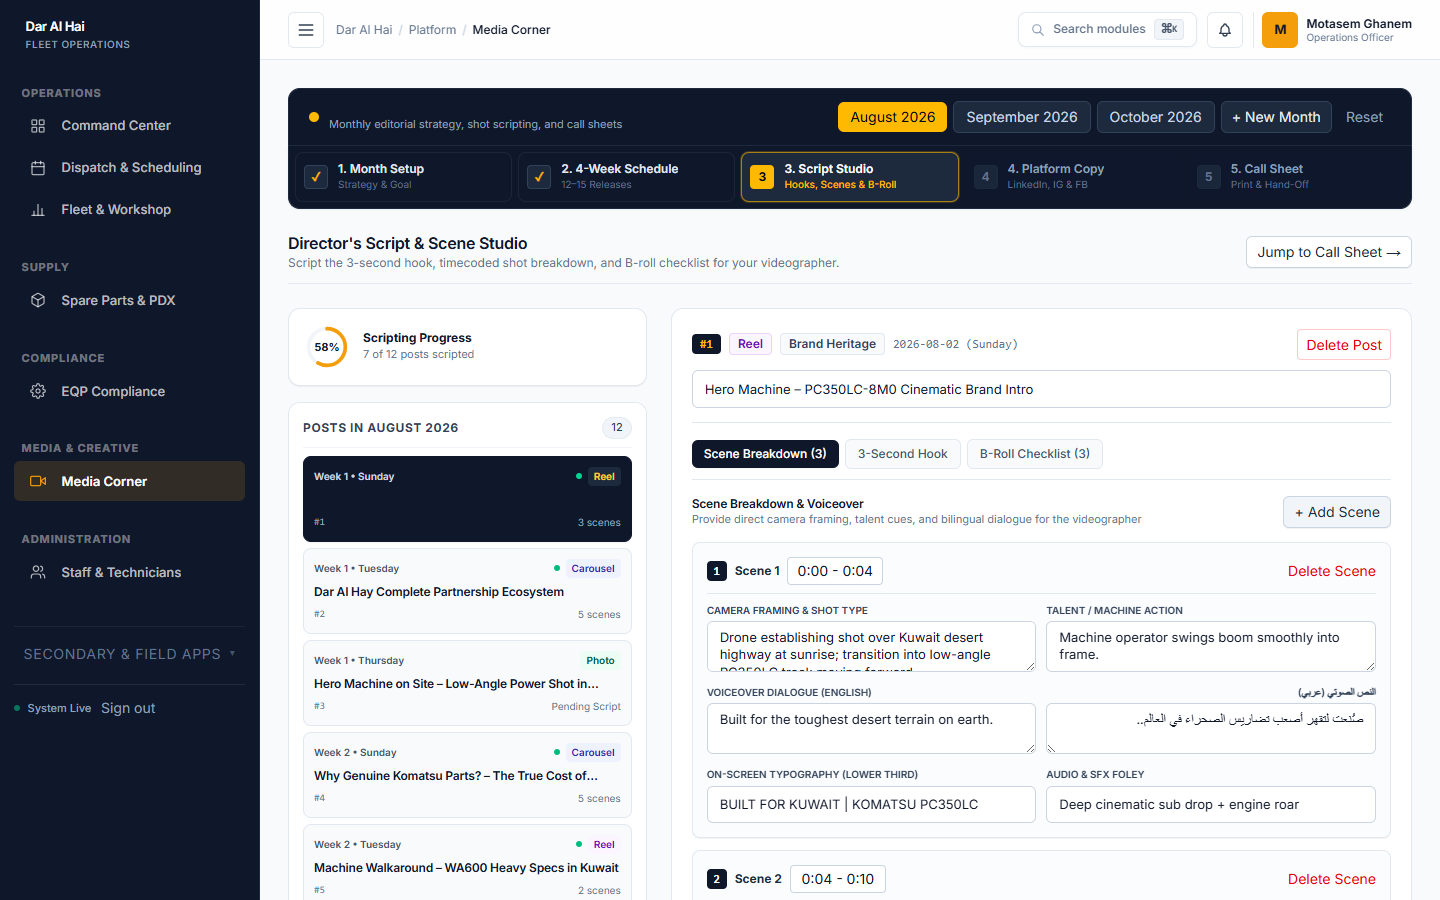
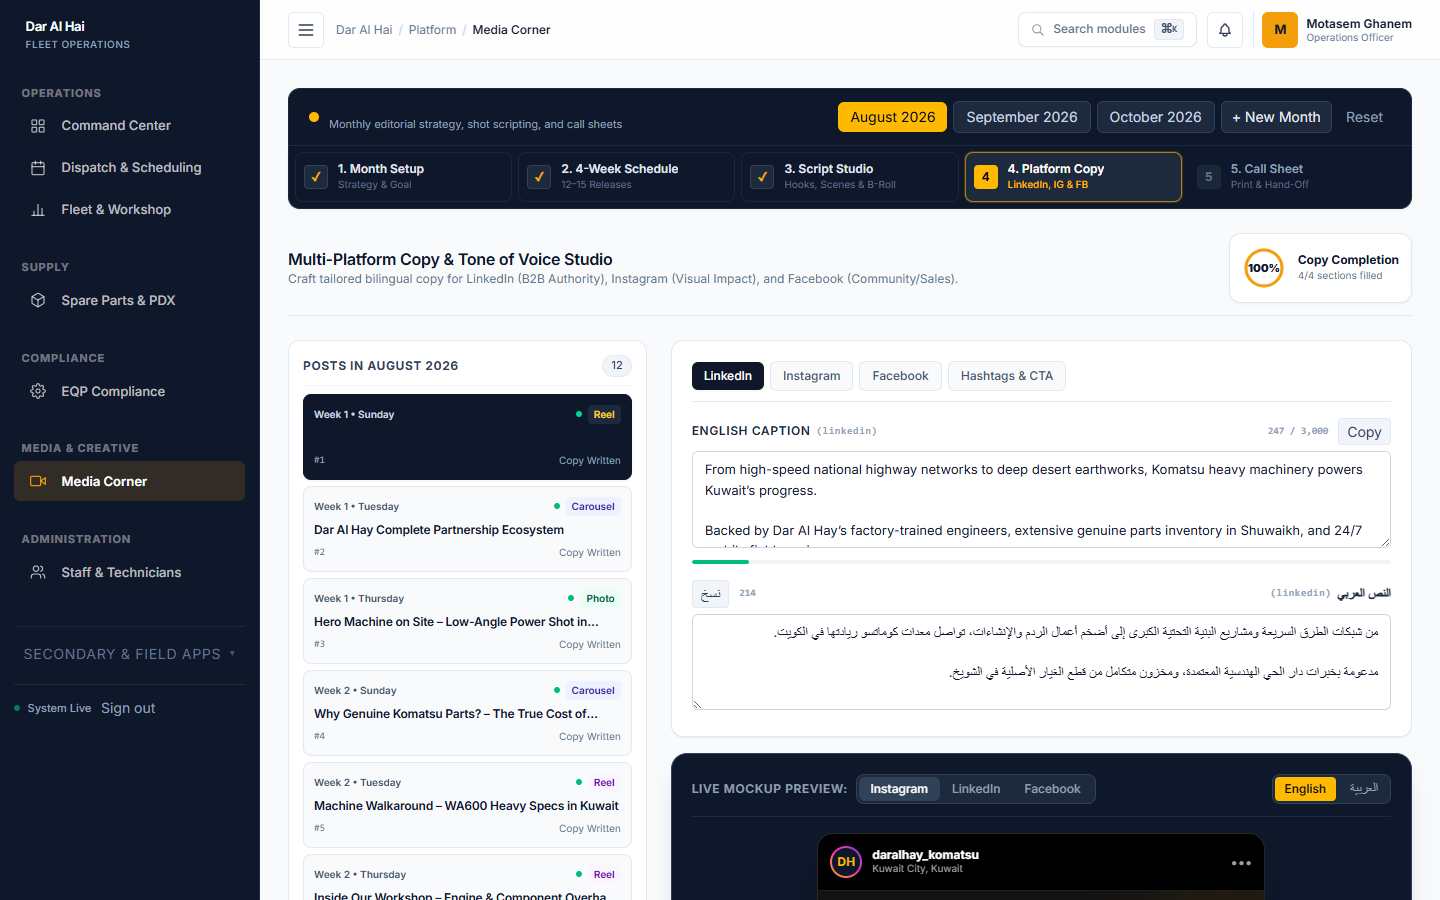
fix(media): clean up platform copy studio, remove emojis, and unify mockup preview

diff --git a/frontend/components/media/steps/Step4PlatformCopy.js b/frontend/components/media/steps/Step4PlatformCopy.js
@@ -101,13 +101,13 @@ export default function Step4PlatformCopy({
       <div className="grid grid-cols-1 lg:grid-cols-12 gap-6 items-start">
         {/* Left Sidebar: Concept Selector + Copy Status */}
         <div className="lg:col-span-4 space-y-4">
-          <div className="bg-white p-4 rounded-2xl border border-slate-200 shadow-xs max-h-[700px] overflow-y-auto space-y-3">
+          <div className="bg-white p-3.5 rounded-xl border border-slate-200 shadow-2xs max-h-[700px] overflow-y-auto space-y-2">
             <div className="flex items-center justify-between pb-2 border-b border-slate-100">
               <span className="text-xs font-bold text-slate-700 uppercase tracking-wider">Posts in {campaign.monthName}</span>
               <Badge tone="neutral">{concepts.length}</Badge>
             </div>
 
-            <div className="space-y-2">
+            <div className="space-y-1.5">
               {concepts.map((c) => {
                 const isSelected = c.id === copyData.id;
                 const fMeta = FORMAT_TYPES.find((f) => f.id === c.format) || FORMAT_TYPES[0];
@@ -117,24 +117,34 @@ export default function Step4PlatformCopy({
                   <div
                     key={c.id}
                     onClick={() => onSelectConcept(c.id)}
-                    className={`p-3 rounded-xl border transition-all cursor-pointer space-y-1 ${
+                    className={`p-2.5 rounded-lg border transition-all cursor-pointer space-y-1.5 ${
                       isSelected
-                        ? 'bg-slate-900 text-white border-slate-900 shadow-sm'
+                        ? 'bg-slate-900 text-white border-slate-900 shadow-xs'
                         : 'bg-slate-50 border-slate-200 text-slate-800 hover:bg-slate-100'
                     }`}
                   >
                     <div className="flex items-center justify-between text-[10px]">
-                      <span className="font-bold opacity-80">{c.week} • {c.day}</span>
+                      <span className={`font-semibold ${isSelected ? 'text-slate-300' : 'text-slate-600'}`}>
+                        {c.week} • {c.day}
+                      </span>
                       <div className="flex items-center gap-1.5">
                         {hasCopy && (
                           <span className={`w-1.5 h-1.5 rounded-full shrink-0 ${isSelected ? 'bg-emerald-400' : 'bg-emerald-500'}`} />
                         )}
-                        <span className={`px-1.5 py-0.2 rounded font-bold ${isSelected ? 'bg-slate-800 text-amber-300' : fMeta.color}`}>
-                          {fMeta.label}
+                        <span className={`px-1.5 py-0.5 rounded font-semibold text-[10px] whitespace-nowrap ${isSelected ? 'bg-slate-800 text-amber-300' : fMeta.color}`}>
+                          {fMeta.shortLabel || fMeta.label}
                         </span>
                       </div>
                     </div>
-                    <h4 className="text-xs font-bold leading-snug line-clamp-1">{c.title}</h4>
+
+                    <h4 className={`text-xs font-bold leading-snug line-clamp-1 ${isSelected ? 'text-white' : 'text-slate-900'}`}>
+                      {c.title || 'Untitled Post'}
+                    </h4>
+
+                    <div className={`flex items-center justify-between text-[10px] pt-0.5 ${isSelected ? 'text-slate-400' : 'text-slate-500'}`}>
+                      <span className="font-mono">#{c.conceptNumber}</span>
+                      <span>{hasCopy ? 'Copy Written' : 'Draft Pending'}</span>
+                    </div>
                   </div>
                 );
               })}
@@ -143,24 +153,19 @@ export default function Step4PlatformCopy({
 
           {/* TOV Quick-Reference Card */}
           {tovPlatform && activeTab !== 'hashtags' && (
-            <div className={`rounded-2xl overflow-hidden border border-slate-200 shadow-xs`}>
-              <div className={`bg-gradient-to-r ${platformInfo.gradient} text-white p-3.5`}>
-                <div className="flex items-center gap-2">
-                  <span className="text-lg">{platformInfo.icon}</span>
-                  <div>
-                    <h4 className="text-xs font-bold">{tovPlatform.platform} TOV Guide</h4>
-                    <p className="text-[10px] opacity-80">{platformInfo.toneLabel}</p>
-                  </div>
-                </div>
+            <div className="rounded-xl overflow-hidden border border-slate-200 shadow-2xs bg-white">
+              <div className="bg-slate-900 text-white p-3 border-b border-slate-800">
+                <h4 className="text-xs font-bold text-slate-100">{tovPlatform.platform} Tone of Voice</h4>
+                <p className="text-[10px] text-slate-400 mt-0.5">{platformInfo.toneLabel}</p>
               </div>
-              <div className="bg-white p-3.5 space-y-2 text-xs">
+              <div className="p-3 space-y-2 text-xs">
                 <div>
                   <span className="text-[10px] font-bold text-slate-400 uppercase block">Target Audience:</span>
-                  <p className="text-slate-800 font-medium mt-0.5">{tovPlatform.target}</p>
+                  <p className="text-slate-800 font-medium mt-0.5 text-xs">{tovPlatform.target}</p>
                 </div>
                 <div>
                   <span className="text-[10px] font-bold text-slate-400 uppercase block">Writing Style:</span>
-                  <p className="text-slate-600 leading-relaxed mt-0.5">{tovPlatform.guidelines}</p>
+                  <p className="text-slate-600 leading-relaxed mt-0.5 text-[11px]">{tovPlatform.guidelines}</p>
                 </div>
               </div>
             </div>
@@ -168,10 +173,10 @@ export default function Step4PlatformCopy({
         </div>
 
         {/* Right Main Stage: Copywriting Tabs & Live Mockup */}
-        <div className="lg:col-span-8 space-y-5">
-          <div className="bg-white p-6 rounded-2xl border border-slate-200 shadow-xs space-y-5">
+        <div className="lg:col-span-8 space-y-4">
+          <div className="bg-white p-5 rounded-xl border border-slate-200 shadow-2xs space-y-4">
             {/* Platform Copy Tabs */}
-            <div className="flex flex-wrap items-center gap-2 border-b border-slate-200 pb-3 text-xs font-bold">
+            <div className="flex flex-wrap items-center gap-1.5 border-b border-slate-200 pb-2.5 text-xs font-medium">
               {['linkedin', 'instagram', 'facebook'].map((platId) => {
                 const pi = PLATFORM_LIMITS[platId];
                 const isActive = activeTab === platId;
@@ -181,14 +186,13 @@ export default function Step4PlatformCopy({
                     key={platId}
                     type="button"
                     onClick={() => setActiveTab(platId)}
-                    className={`px-3.5 py-2 rounded-xl transition-all flex items-center gap-2 border ${
+                    className={`px-3 py-1.5 rounded-md transition-all cursor-pointer ${
                       isActive
-                        ? `bg-gradient-to-r ${pi.gradient} text-white border-transparent shadow-md`
-                        : 'text-slate-600 bg-white border-slate-200 hover:bg-slate-50 hover:border-slate-300'
+                        ? 'bg-slate-900 text-white font-bold shadow-xs'
+                        : 'text-slate-600 bg-slate-50 border border-slate-200 hover:bg-slate-100 hover:text-slate-900'
                     }`}
                   >
-                    <span className="text-sm">{pi.icon}</span>
-                    <span>{pi.label}</span>
+                    {pi.label}
                   </button>
                 );
               })}
@@ -196,42 +200,41 @@ export default function Step4PlatformCopy({
               <button
                 type="button"
                 onClick={() => setActiveTab('hashtags')}
-                className={`px-3.5 py-2 rounded-xl transition-all flex items-center gap-2 border ${
+                className={`px-3 py-1.5 rounded-md transition-all cursor-pointer ${
                   activeTab === 'hashtags'
-                    ? 'bg-slate-900 text-white border-slate-900 shadow-md'
-                    : 'text-slate-600 bg-white border-slate-200 hover:bg-slate-50 hover:border-slate-300'
+                    ? 'bg-slate-900 text-white font-bold shadow-xs'
+                    : 'text-slate-600 bg-slate-50 border border-slate-200 hover:bg-slate-100 hover:text-slate-900'
                 }`}
               >
-                <span className="text-sm">#</span>
-                <span>Hashtags & CTA</span>
+                Hashtags & CTA
               </button>
             </div>
 
             {/* TAB CONTENT: ENGLISH & ARABIC PROSE */}
             {(activeTab === 'linkedin' || activeTab === 'instagram' || activeTab === 'facebook') && (
-              <div className="space-y-5">
+              <div className="space-y-4">
                 {/* English Box */}
                 <div className="space-y-1.5">
                   <div className="flex items-center justify-between">
-                    <label className="text-xs font-bold text-slate-800 uppercase tracking-wider flex items-center gap-1.5">
-                      🇬🇧 English Caption
+                    <label className="text-xs font-semibold text-slate-800 uppercase tracking-wider flex items-center gap-1.5">
+                      English Caption
                       <span className="text-[10px] font-mono text-slate-400 lowercase">({platformInfo.label})</span>
                     </label>
-                    <div className="flex items-center gap-3">
-                      <span className={`text-[10px] font-mono font-bold ${enLen > platformInfo.maxChars ? 'text-red-600' : 'text-slate-400'}`}>
+                    <div className="flex items-center gap-2.5">
+                      <span className={`text-[10px] font-mono font-semibold ${enLen > platformInfo.maxChars ? 'text-red-600' : 'text-slate-400'}`}>
                         {enLen.toLocaleString()} / {platformInfo.maxChars.toLocaleString()}
                       </span>
                       <button
                         type="button"
                         onClick={() => handleCopyText(copyData.captionEn || '', 'en')}
-                        className="text-xs font-bold text-sky-600 hover:underline"
+                        className="text-xs font-semibold text-slate-700 hover:text-slate-900 bg-slate-100 px-2 py-0.5 rounded border border-slate-200 cursor-pointer"
                       >
-                        {copiedSection === 'en' ? '✓ Copied!' : '📋 Copy'}
+                        {copiedSection === 'en' ? '✓ Copied' : 'Copy'}
                       </button>
                     </div>
                   </div>
                   <textarea
-                    rows={5}
+                    rows={4}
                     value={copyData.captionEn || ''}
                     onChange={(e) => handleFieldChange('captionEn', e.target.value)}
                     placeholder="Write structured B2B prose with clear value proposition and Kuwait context..."
@@ -249,25 +252,25 @@ export default function Step4PlatformCopy({
                 {/* Arabic Box */}
                 <div className="space-y-1.5" dir="rtl">
                   <div className="flex items-center justify-between">
-                    <label className="text-xs font-bold text-slate-800 uppercase tracking-wider text-right flex items-center gap-1.5">
-                      🇰🇼 النص العربي
+                    <label className="text-xs font-semibold text-slate-800 uppercase tracking-wider text-right flex items-center gap-1.5">
+                      النص العربي
                       <span className="text-[10px] font-mono text-slate-400 lowercase">({platformInfo.label})</span>
                     </label>
-                    <div className="flex items-center gap-3">
-                      <span className="text-[10px] font-mono font-bold text-slate-400">
+                    <div className="flex items-center gap-2.5">
+                      <span className="text-[10px] font-mono font-semibold text-slate-400">
                         {arLen.toLocaleString()}
                       </span>
                       <button
                         type="button"
                         onClick={() => handleCopyText(copyData.captionAr || '', 'ar')}
-                        className="text-xs font-bold text-sky-600 hover:underline"
+                        className="text-xs font-semibold text-slate-700 hover:text-slate-900 bg-slate-100 px-2 py-0.5 rounded border border-slate-200 cursor-pointer"
                       >
-                        {copiedSection === 'ar' ? '✓ تم النسخ!' : '📋 نسخ'}
+                        {copiedSection === 'ar' ? '✓ تم النسخ' : 'نسخ'}
                       </button>
                     </div>
                   </div>
                   <textarea
-                    rows={5}
+                    rows={4}
                     value={copyData.captionAr || ''}
                     onChange={(e) => handleFieldChange('captionAr', e.target.value)}
                     placeholder="اكتب النص العربي بصياغة خليجية مهنية رصينة..."
@@ -276,6 +279,7 @@ export default function Step4PlatformCopy({
                 </div>
               </div>
             )}
+
 
             {/* TAB: HASHTAGS & CTA */}
             {activeTab === 'hashtags' && (

diff --git a/frontend/components/media/PlatformPostSimulator.js b/frontend/components/media/PlatformPostSimulator.js
@@ -20,45 +20,45 @@ export default function PlatformPostSimulator({ concept }) {
       {/* Platform Simulator Switcher */}
       <div className="flex flex-col sm:flex-row sm:items-center sm:justify-between gap-3 border-b border-slate-800 pb-3">
         <div className="flex items-center gap-2">
-          <span className="text-xs font-bold uppercase tracking-wider text-slate-400">Live Mockup Preview:</span>
-          <div className="flex bg-slate-800 p-0.5 rounded-lg border border-slate-700">
+          <span className="text-xs font-semibold uppercase tracking-wider text-slate-400">Live Mockup Preview:</span>
+          <div className="flex bg-slate-800 p-0.5 rounded-lg border border-slate-700 text-xs font-medium">
             <button
               type="button"
               onClick={() => setActivePlatform('instagram')}
-              className={`px-2.5 py-1 rounded-md text-xs font-bold transition-all ${
-                activePlatform === 'instagram' ? 'bg-gradient-to-r from-pink-500 to-purple-600 text-white shadow-xs' : 'text-slate-400 hover:text-white'
+              className={`px-3 py-1 rounded-md transition-all cursor-pointer ${
+                activePlatform === 'instagram' ? 'bg-slate-700 text-white font-bold shadow-xs' : 'text-slate-400 hover:text-white'
               }`}
             >
-              📸 Instagram
+              Instagram
             </button>
             <button
               type="button"
               onClick={() => setActivePlatform('linkedin')}
-              className={`px-2.5 py-1 rounded-md text-xs font-bold transition-all ${
-                activePlatform === 'linkedin' ? 'bg-blue-600 text-white shadow-xs' : 'text-slate-400 hover:text-white'
+              className={`px-3 py-1 rounded-md transition-all cursor-pointer ${
+                activePlatform === 'linkedin' ? 'bg-slate-700 text-white font-bold shadow-xs' : 'text-slate-400 hover:text-white'
               }`}
             >
-              💼 LinkedIn
+              LinkedIn
             </button>
             <button
               type="button"
               onClick={() => setActivePlatform('facebook')}
-              className={`px-2.5 py-1 rounded-md text-xs font-bold transition-all ${
-                activePlatform === 'facebook' ? 'bg-blue-500 text-white shadow-xs' : 'text-slate-400 hover:text-white'
+              className={`px-3 py-1 rounded-md transition-all cursor-pointer ${
+                activePlatform === 'facebook' ? 'bg-slate-700 text-white font-bold shadow-xs' : 'text-slate-400 hover:text-white'
               }`}
             >
-              👥 Facebook
+              Facebook
             </button>
           </div>
         </div>
 
         {/* Language Switcher */}
-        <div className="flex items-center gap-1.5 bg-slate-800 p-0.5 rounded-lg border border-slate-700 self-start sm:self-auto">
+        <div className="flex items-center gap-1 bg-slate-800 p-0.5 rounded-lg border border-slate-700 self-start sm:self-auto text-xs font-medium">
           <button
             type="button"
             onClick={() => setActiveLang('en')}
-            className={`px-2 py-0.5 rounded text-[11px] font-bold ${
-              activeLang === 'en' ? 'bg-amber-500 text-slate-950 font-extrabold' : 'text-slate-400 hover:text-white'
+            className={`px-2.5 py-1 rounded text-xs transition-all cursor-pointer ${
+              activeLang === 'en' ? 'bg-amber-400 text-slate-950 font-bold' : 'text-slate-400 hover:text-white'
             }`}
           >
             English
@@ -66,14 +66,15 @@ export default function PlatformPostSimulator({ concept }) {
           <button
             type="button"
             onClick={() => setActiveLang('ar')}
-            className={`px-2 py-0.5 rounded text-[11px] font-bold ${
-              activeLang === 'ar' ? 'bg-amber-500 text-slate-950 font-extrabold' : 'text-slate-400 hover:text-white'
+            className={`px-2.5 py-1 rounded text-xs transition-all cursor-pointer ${
+              activeLang === 'ar' ? 'bg-amber-400 text-slate-950 font-bold' : 'text-slate-400 hover:text-white'
             }`}
           >
             العربية
           </button>
         </div>
       </div>
+
 
       {/* Render Realistic Mockup based on Platform */}
       <div className="max-w-md mx-auto">
